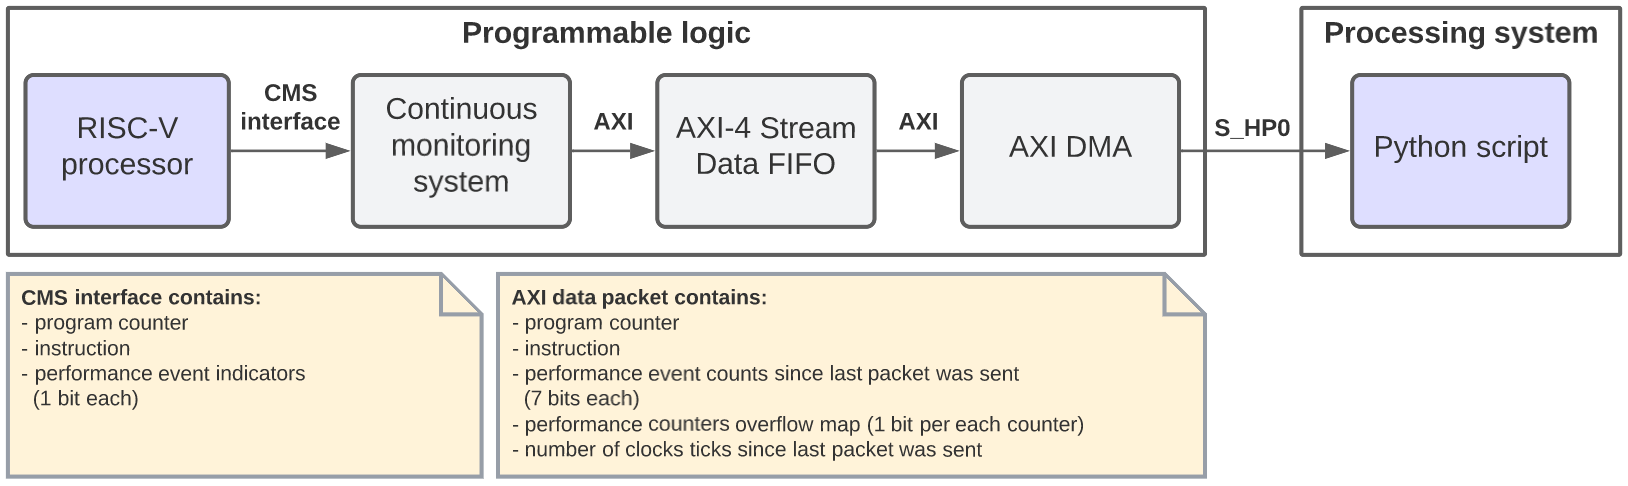
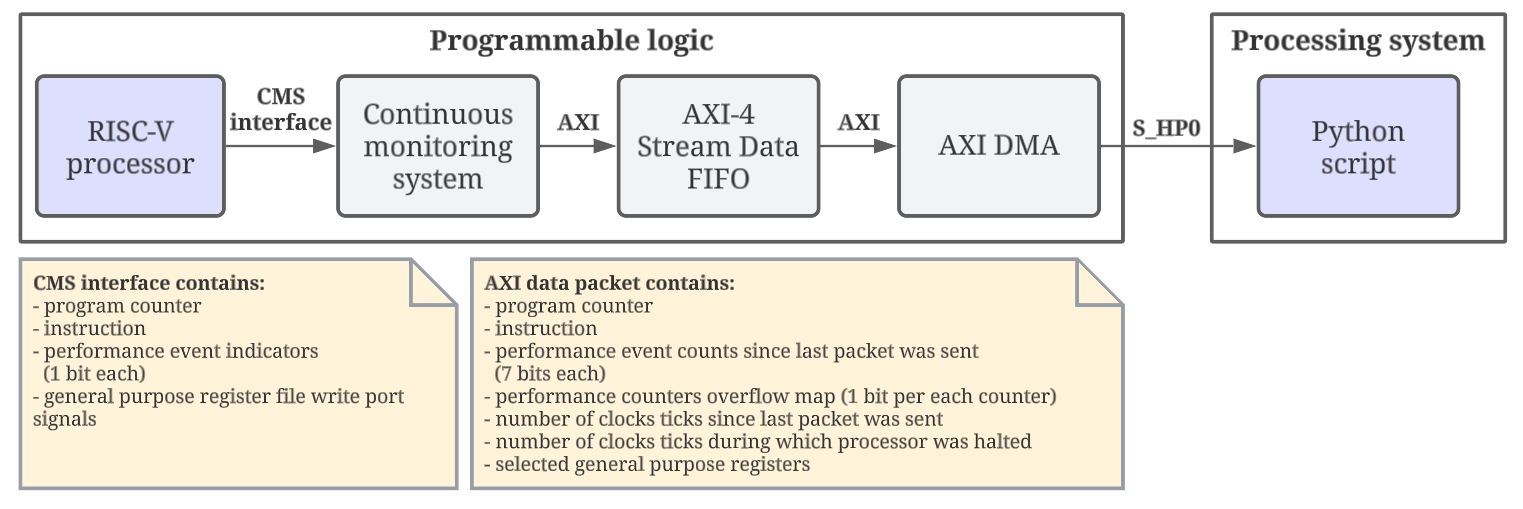
Updated docs

Changed region(s): [[0.0, 0.0, 1.0, 0.9877]]

diff --git a/README.md b/README.md
@@ -1,14 +1,14 @@
 # PYNQ wrapper for Flute processor
-This repository contains source files and documentation for a PYNQ design that collects metrics from CHERI-RISC-V (Flute) processor implemented in programmable logic (PL) of the ZC706 board. It is an anomaly-detection oriented tracing system. Its main purpose is to detect anomalous program behaviour. 
+This repository contains source files and documentation for a PYNQ design that implements an anomaly-detection oriented tracing system. The main purpose of the design is to detect anomalous program behaviour. The design is implemented in programmable logic (PL) of the ZC706 board where a modified version of CHERI-RISC-V (Flute) processor is placed.
 
-It includes a continuous monitoring system (CMS) hardware module responsible for filtering and preprocessing extracted data. The data is then sent to the Python script where it is used to train an anomaly detection model. The model is then used to detect anomalous behaviour of the processor. The design includes an Esp32-based display board that is used to control and view the state of the CMS, it allows the user to:  
+Next to the RISC-V processor, there is a continuous monitoring system (CMS) hardware module responsible for filtering and preprocessing data collected from it. Traced program metrics are sent to the Python script where it is used to train an anomaly detection model. The model is then used to detect anomalous behaviour of the processor, which is then displayed on a wireless Esp32-based [display board](./docs/display.md). The display board is also used to control the CMS and view its state. It allows the user to:  
 * load a program into memory (of the CHERI-RISC-V Flute processor)  
 * run, halt and resume the program
 * enable training/testing modes (independently) of the CMS
 * configure the [watchpoint-based tracing](./docs/watchpoint_based_tracing.md) (condition based data collection)
 * view how similar the current behaviour of the processor is to the training data (using cosine similarity of collected hardware performance counters)
 
-The project includes a custom I/O extension board which allows the RISC-V processor to interact with up to 16 digital (PMOD) and 16 analog (XADC) sensors. In our example [use case](./docs/use_case.md) we utilized an ECG sensor to collect heart activity information and display it on a dedicated screen (pretending to be a proper medical device).
+The project makes use of a [custom I/O extension board](./docs/sensors_extension.md) which allows the RISC-V processor to interact with up to 16 digital (PMOD) and 16 analog (XADC) sensors. In our example [use case](./docs/use_case.md) we utilized an ECG sensor to collect heart activity information and display it on a dedicated screen (pretending to be a proper medical device).
 
 ![ERROR: IMAGE WASNT DISPLAYED](./images/overview_detailed_3.png)
 
@@ -17,25 +17,9 @@ So far we only used hardware performance counters (HPC) for anomaly detection pu
 * instruction
 * general purpose registers
 * console output
-* sensor readings
+* physical sensor readings
 
 Such metrics could be used to create a robust application-specific detection system.
-
-# What work was done <span style="color:red"> (not sure if this is needed) </span>
-* CHERI-RISC-V Flute processor was modified (see [flute_modifications.md](./docs/flute_modifications.md) for details) 
-* Vivado design was created to facilitate:  
-    * data filtering, preprocessing and extraction (CMS module)
-    * console I/O (using AXI DMA) 
-    * XADC and PMOD sensors reading to dedicated memory accessible by the RISC-V processor
-    * memory implementation for the RISC-V processor
-* Custom I/O extension board was created to allow RISC-V interact with large number of physical sensors (see [sensors_extension.md](./docs/sensors_extension.md) for details about the parts and wiring)
-* ESP32 controlled displays integration, including:
-    * custom [GUI library](./display_board/src/lib)
-    * multicore Esp32 (Arduino-like) [program](./display_board/src/CMS/cms_program.cpp) to communicate with TCP server on PYNQ and display CMS information on the screen
-    * objdump output explorer
-
-# What was not created by us
-The [vivado_files/src_verilog](./vivado_files/src_verilog/) directory contains i.a. "RV64ACDFIMSUxCHERI" and "src_bsc_lib_RTL" directories, these contain source code of the CHERI-RISC-V Flute processor, which was copied from the [CTSRD-CHERI:Flute](https://github.com/CTSRD-CHERI/Flute) repository, modified by us (as described in [flute_modifications.md](./docs/flute_modifications.md)), compiled and placed in this repository. We'd like to make it clear that we did not create the processor, we only used it in our project.
 
 # File structure of this repository
 
@@ -43,7 +27,7 @@ The [vivado_files/src_verilog](./vivado_files/src_verilog/) directory contains i
 | ----------- | ----------- |
 | docs | Documentation files. |
 | images | Documentation images. |
-| jupyter_notebooks | Files to be placed on the PYNQ system (/home/xilinx/jupyter_notebooks). [pynq_wrapper.ipynb](./jupyter_notebooks/pynq_wrapper.ipynb) is the top-level script. |
+| jupyter_notebooks | Files to be placed on the PYNQ system (/home/xilinx/jupyter_notebooks). [pynq_wrapper.ipynb](./jupyter_notebooks/pynq_wrapper.ipynb) is the top-level script ([pynq_api_script.md](./docs/pynq_api_script.md) describes it). |
 | programs | Binary files to be placed on the PYNQ system (/home/xilinx/programs). These files can be first loaded (from the control display) into the CHERI-RISC-V Flute processor, and then executed. |
 | design_files | Files to be placed on the PYNQ system (/home/xilinx/design_files). These include the biststream (".bit") and hardware handoff (".hwh") files.  |
 | vivado_files | Verilog, constraints and other files relating to the Vivado project. |
@@ -53,17 +37,18 @@ The [vivado_files/src_verilog](./vivado_files/src_verilog/) directory contains i
 # Documentation
 Documentation files are in the [docs](./docs) directory and include:
 * [vivado_block_design.md](./docs/vivado_block_design.md) - description of the Vivado block design with screenshots using top-down approach
+* [pynq_api_script.md](./docs/pynq_api_script.md) - description of the Python script that controls the hardware
 * [setup_guide.md](./docs/setup_guide.md) - step by step guide to get the design up and running
+* [use_case.md](./docs/use_case.md) - example use case of the CMS module, monitoring ECG program that displays heart activity
+* [flute_modifications.md](./docs/flute_modifications.md) - how the Flute processor was modified to facilitate tracing and halting it
+* [sensors_extension.md](./docs/sensors_extension.md) - how to read digital and analog sensors in a RISC-V program
 * [data_extraction.md](./docs/data_extraction.md) - what is traced and how
 * [console_io.md](./docs/console_io.md) - how PYNQ can send and receive console I/O data to/from the RISC-V processor 
 * [continuous_monitoring_system_configuration.md](./docs/continuous_monitoring_system_configuration.md) - how to customize operation of the CMS module (responsible for filtering/preprocessing of the data)
 * [loading_and_running_programs.md](./docs/loading_and_running_programs.md) - how to load a program into memory and run it on the RISC-V processor
-* [sensors_extension.md](./docs/sensors_extension.md) - how to read digital and analog sensors in a RISC-V program
-* [flute_modifications.md](./docs/flute_modifications.md) - how the Flute processor was modified
-* [display.md](./docs/display.md) - information about ESP32-3248S035C and ESP32-8048S070 display boards
-* [tcp_server_protocol.md](./docs/tcp_server_protocol.md) - protocol for controlling and getting updates from PYNQ, it is used by the display board
-* [use_case.md](./docs/use_case.md) - example use case of the CMS module, monitoring ECG program that displays heart activity
+* [display.md](./docs/display.md) - information about ESP32-3248S035C and ESP32-8048S070 display boards (used to control the hardware, display program metrics and more)
 * [watchpoint_based_tracing.md](./docs/watchpoint_based_tracing.md) - description, pros, cons and implementation details of watchpoint based tracing implemented in CMS
+* [tcp_server_protocol.md](./docs/tcp_server_protocol.md) - protocol for controlling and getting updates from PYNQ, it is used by the display board
 
 
 # Example use case
@@ -96,3 +81,22 @@ Furthermore, the documentation may serve as a reference for anyone who would lik
 
 # Block design
 [<img alt="ERROR: IMAGE WASNT DISPLAYED" src="./images/block_design.png" />](./images/block_design.pdf)
+
+# Notes for the Xilinx Open Hardware competition
+Multiple components were used for this project, we'd like to highlight what was produced by us and what wasn't.
+
+## What work was done
+* CHERI-RISC-V Flute processor was modified (see [flute_modifications.md](./docs/flute_modifications.md) for details) 
+* [Vivado block design](./docs/vivado_block_design.md) was created to facilitate:  
+    * data filtering, preprocessing and extraction (CMS module)
+    * console I/O (using AXI DMA) 
+    * XADC and PMOD sensors reading to dedicated memory accessible by the RISC-V processor
+    * memory implementation for the RISC-V processor
+* Custom I/O extension board was created to allow RISC-V interact with large number of physical sensors (see [sensors_extension.md](./docs/sensors_extension.md) for details about the parts and wiring)
+* ESP32 controlled displays were integrated, this included creation of:
+    * custom [GUI library](./display_board/src/lib)
+    * multicore Esp32 (Arduino-like) [program](./display_board/src/CMS/cms_program.cpp) to communicate with TCP server on PYNQ and display CMS information on the screen
+    * objdump output explorer
+
+## What was not created by us
+The [vivado_files/src_verilog](./vivado_files/src_verilog/) directory contains i.a. "RV64ACDFIMSUxCHERI" and "src_bsc_lib_RTL" directories, these contain source code of the CHERI-RISC-V Flute processor, which was copied from the [CTSRD-CHERI:Flute](https://github.com/CTSRD-CHERI/Flute) repository, modified by us (as described in [flute_modifications.md](./docs/flute_modifications.md)), compiled and placed in this repository. We'd like to make it clear that we did not create the processor, we only used it in our project.

diff --git a/docs/data_extraction.md b/docs/data_extraction.md
@@ -7,7 +7,9 @@
     - [Example collected data (performance counters)](#example-collected-data-performance-counters)
 - [How much data can be collected](#how-much-data-can-be-collected)
     - [Possible way to handle low speed/low memory](#possible-way-to-handle-low-speedlow-memory)
-- [Data filtering](#data-filtering)
+- [Data filtering modes](#data-filtering-modes)
+  - [Basic filtering](#basic-filtering)
+  - [Watchpoing based filtering](#watchpoing-based-filtering)
 - [Performance counters selection](#performance-counters-selection)
 - [Note about performance counters extraction](#note-about-performance-counters-extraction)
 
@@ -29,6 +31,7 @@ The processor (implemented in Bluespec Verilog language) is modified to propagat
 - program counter
 - instruction
 - 39 performance event indicating bits (each indicating different performance event currently taking place)
+- general purpose register (GPR) file write port signals
 
 Image below presents ContinousMonitoringSystem_IFC declaration in the [ContinuousMonitoringSystem_IFC.bsv](https://github.com/michalmonday/Flute/blob/continuous_monitoring/src_Core/CPU/ContinuousMonitoring_IFC.bsv):  
 <img alt="ERROR: IMAGE WASNT DISPLAYED" src="../images/ContinuousMonitoringSystem_IFC_declaration.bsv.png" />
@@ -37,7 +40,7 @@ Image below presents how that interface is defined in the [CPU.bsv](https://gith
 
 <img alt="ERROR: IMAGE WASNT DISPLAYED" src="../images/ContinuousMonitoringSystem_IFC_definition.bsv.png" />
 
-Continuous monitoring system module (`cms_ip_wrapper` on image below) receives these signals as inputs, it then decides whether or not to collect them (that is elaborated in [Data filtering](#data-filtering) section). The continuous monitoring module is responsible for counting each performance event, and counting clock cycles since last collected item. If the data item is to be collected, it turns all values into a single 512 bit vector and transfers it to AXI4-Stream Data FIFO using AXI protocol. Contents of that 512 bit vector are described in the [What data is collected](#what-data-is-collected) section.
+Continuous monitoring system module (`cms_ip_wrapper` on image below) receives these signals as inputs, it then decides whether or not to collect them (that is elaborated in [Data filtering modes](#data-filtering-modes) section). The continuous monitoring module is responsible for counting each performance event, and counting clock cycles since last collected item. If the data item is to be collected, it turns all values into a single 1024 bit vector and transfers it to AXI4-Stream Data FIFO using AXI protocol. Contents of that 1024 bit vector are described in the [What data is collected](#what-data-is-collected) section.
 <!-- <img src="../images/cms_ifc.png" width=300/> -->
 <img alt="ERROR: IMAGE WASNT DISPLAYED" src="../images/data_transfer_path_block_design.png" width=500/>
 
@@ -46,10 +49,10 @@ After delivering the data to FIFO, the AXI DMA may be requested to transfer the 
 ```python
 from pynq import Overlay
 from pynq import allocate
-AXI_DATA_WIDTH = 512
+AXI_DATA_WIDTH = 1024
 
 def get_dma_transfer(input_buffer, dma_rec, dont_wait=False):
-    ''' Returns the number of transferred items, each having 512 bits. '''
+    ''' Returns the number of transferred items, each having 1024 bits. '''
     dma_rec.transfer(input_buffer)
     if not dont_wait:
         dma_rec.wait() 
@@ -67,12 +70,14 @@ items_transferred = get_dma_transfer(input_buffer, dma_rec)
 
 
 # What data is collected
-Each collected data item received by the python script contains:
+Each collected data item (`data_pkt` variable in [continuous_monitoring_system.sv](../vivado_files/src_verilog/continuous_monitoring_system_src/continuous_monitoring_system.sv)) received by the python script contains:
 * program counter (64 bits), collected as it is passed from stage 1 to stage 2 of the CPU pipeline
 * instruction (32 bits), collected as it is passed from stage 1 to stage 2 of the CPU pipeline
 * clock ticks count since last extracted item (64 bits)
+* clock ticks since processor was halted since last extracted item (64 bits) 
 * 39 performance counters (7 bits each) indicating how many of each events occured since last extracted item
 * performance counters overflow map (39 bits), indicating which counters have to be treated as modulo of 128 values (due to going over their maximum value limited by 7 bits)
+* 4 selected general purpose registers (A0 - A3)
 
 ### Example collected data (performance counters not shown)
 
@@ -100,10 +105,15 @@ Disabling the halting mechanism can be useful when testing features of design ot
 ### Possible way to handle low speed/low memory
 Inability to collect/process the data fast enough is a major shortcoming of this design, especially that python is relatively slow. One way to tackle that issue would be to change granularity of data collection (e.g. collect data every function call/return instead of every branch/jump/return, possibly this could involve collecting frequency distribution of certain events, similarly to performance counters collection). 
 
-# Data filtering
-Data items are only collected when program counter changes value and the current instruction is either a branch, jump, return or any instruction immediately following these.
+# Data filtering modes
 
 The `continuous_monitoring_system` module is configurable and may be set to only collect data when program counter is within range. Or to start/stop collection when it reaches specific value. See [continuous_monitoring_system_configuration.md](./continuous_monitoring_system_configuration.md) for more details.
+
+## Basic filtering
+Before introducing the watchpoint based filtering, data items were only collected when program counter changes value and the current instruction is either a branch, jump, return or any instruction immediately following these.
+
+## Watchpoing based filtering
+This is the currently used filtering, it is described in the [watchpoint_based_tracing.md](./watchpoint_based_tracing.md) file. It was introduced to reduce the amount of collected data and allow software (python script) to process data in real time (to detect anomalies).
 
 # Performance counters selection
 The Flute processor has 115 performance counters. In our test we ran a baremetal short program and repeatedly collected all 115 counter values, we observed that 78 of them always had all values equal to 0. We decided to extract only the remaining 37 + 2 additional ones: `Core__TRAP` and `Core__INTERRUPT`.

diff --git a/docs/pynq_api_script.md b/docs/pynq_api_script.md
@@ -1,0 +1,120 @@
+[pynq_wrapper.ipynb](../juptyer_notebooks/pynq_wrapper.ipynb) is the main file that controls the PYNQ board and communicates with the display board. It is long, and may be hart to read, this document describes its structure, main parts and functions.
+
+The pynq_wrapper.ipynb notebook file is divided into 4 main parts with the following headings:
+* Initialization and some auxiliary functions
+* Configuration of CMS
+* TCP server setup
+* Main operation
+
+These sections are described below.
+
+## Initialization and some auxiliary functions
+This part of the code is quite long. In summary, it loads the Overlay and initializes objects like:
+* Bram_Loader - which contains `load('program.bin')` method
+* Console_IO - which contains `send(string)` and `read()` methods
+* ContinuousMonitoringSystemController - which contains various methods (e.g. to enable trace start/stop address or set traced address range)
+* TCP_Server - which contains `.register_rpcs(rpc_functions)` method which sets functions that can be called by the display board (which controls CMS and displays its status)
+
+The most relevant auxiliary functions are: 
+* `reset_cpu()`
+* `run_and_collect(stdin)`
+* `get_dma_transfer(input_buffer)`
+* `parse_input_buffer(input_buffer)`
+* `parse_fifo_item(fifo_item)`
+* `print_dma_channel_status(channel)`
+* `print_fifo_data_counts()`
+
+This section loads the CPU with the [ecg.bin](../programs/ECG/) program and sets the processor to inactive state:
+```python
+# set processor into reset state
+gpio_rst_n_out.write(0)
+
+# load the default program
+bram_loader.load(PROGRAMS_DIR / 'ECG/ecg.bin')
+
+print('Initialization done')
+```
+
+## Configuration of CMS
+```python 
+def setup_cms(cms_ctrl):
+    # Triggerring (exact address must match to start/stop trace)
+    cms_ctrl.set_trigger_trace_start_address(0x1000)
+    cms_ctrl.set_trigger_trace_end_address(0x80000106)  
+    cms_ctrl.set_trigger_trace_start_address_enabled(False)
+    cms_ctrl.set_trigger_trace_end_address_enabled(False)
+
+    # Filtering (any address between lower bound and upper bound will be collected)
+    cms_ctrl.set_monitored_address_range_lower_bound(0x0FFF)     #(0x80000000)
+    cms_ctrl.set_monitored_address_range_upper_bound(0x800000FF)
+    cms_ctrl.set_monitored_address_range_lower_bound_enabled(False)
+    cms_ctrl.set_monitored_address_range_upper_bound_enabled(False)
+    
+    # Allow further trace collection if last traced program used "wfi"
+    # (wait for interrupt) instruction which stops the trace.
+    cms_ctrl.reset_wfi_wait()
+    cms_ctrl.set_tlast_interval(TLAST_INTERVAL)
+    
+    cms_ctrl.enable_halting_cpu()
+    
+    # Advanced trace filter (ATF) configuration
+    cms_ctrl.reset_atf()
+    
+    # DIRECT MATCH ATF WATCHPOINTS (determining when data is collected):
+    #cms_ctrl.set_atf_match_watchpoint(0, {'pc':0x8000076c})
+    #cms_ctrl.set_atf_match_watchpoint(0, {'pc':0x80000760}) # ecg_baseline wait_ms
+    #cms_ctrl.set_atf_match_watchpoint(0, {'pc':0x800008B0}) # ecg_baseline wait_ms_2
+    cms_ctrl.set_atf_mode(ATF_MODE.ANOMALY_DETECTION) # alternative: ATF_MODE.PATTERN_COLLECTION
+    cms_ctrl.enable_atf()
+    
+setup_cms(cms_ctrl)
+```
+
+## TCP server setup
+This part defines remote procedure calls (rpc) that can be called by the display board (the control screen). All rpc functions start with "rpc_" prefix, currently these are:
+* `rpc_list_programs()`
+* `rpc_list_objdumps()`
+* `rpc_get_objdump_data(category, name)`
+* `rpc_load_program(name)`
+* `rpc_run()`
+* `rpc_halt()`
+* `rpc_enable_training()`
+* `rpc_disable_training()`
+* `rpc_enable_testing()`
+* `rpc_disable_testing()`
+* `rpc_reset_dataset()`
+* `rpc_set_atf_watchpoint(index, is_active, json_str_attributes_dict)`
+* `rpc_atf_watchpoint_set_active(index, state)`
+
+RPC calls are implemented using JSON based protocol, see [cms_program.cpp](../display_board/src/CMS/cms_program.cpp) (client) and [TCP_Server.py](../jupyter_notebooks/tcp_server.py) (server) for more details.
+
+## Main operation
+This part of the code starts a thread which allows the display board to control the PYNQ board to do things like:
+* load a program
+* run/halt a program
+* set or toggle a trace filter watchpoint condition
+* start/stop training
+* start/stop testing
+* receive data about the currently running program, data like:
+    * performance (which decreases if the program is halted due to full internal trace buffer in programmable logic)
+    * number of collected data items since receiving last update (it depends on how many times watchpoint condition was met)
+    * average similarity to previously collected metrics (indicating whether or not the program behaviour is normal)
+
+This also the part of the code where the `get_dma_transfer(input_buffer, dma_rec_channel)` is called to get the trace data from the RISC-V processor. The data is then parsed:  
+```python
+perf_counters, perf_counters_overflow_map, pc, clk_counter, instr, fifo_full_ticks_count, gp_regs = parse_fifo_item(fifo_item)
+```
+
+Depending on training enable state, the performance counters are supplied to the anomaly detection model:
+```python
+if mode & MODE.TRAINING:
+    anomaly_detection.update_dataset(useful_perf_counters)
+```
+
+Depending on testing enable state, the maximum cosine similarity to previously collected data items may be stored (before being sent as an update to the display board):
+```python
+if mode & MODE.TESTING:
+    similarity = anomaly_detection.get_max_cosine_similarity(useful_perf_counters)
+    similarities.append(similarity)
+```
+

diff --git a/docs/vivado_block_design.md b/docs/vivado_block_design.md
@@ -22,13 +22,13 @@ Hierarchical blocks are heavily used in the design, this way it's easier to mana
 At top level the Vivado design consists of 3 main components:  
 * **CHERI_RISCV_Flute_mkSoC_Top** - top-level module of a RISC-V processor with CHERI security extension, modified by us to propagate signals relevant from behaviour profiling perspective (e.g. program counter, instruction, hardware performance counters, general purpose registers)  
 * **ZYNQ_ARM_processing_system** - block that allows to configure and interface with the Zynq ARM processing system
-* **PYNQ_wrapper_blocks hierarchy** - it encapsulates all the blocks that are responsible for trace collection, interfacing console I/O between RISC-V processor and the PYNQ script, loading BRAM with baremetal programs, providing the RISC-V access to analog and digital sensors readings, and other peripherals (e.g. timer, random number generator)
+* **PYNQ_wrapper_blocks hierarchy** - it encapsulates all the blocks that are responsible for trace collection, interfacing console I/O between RISC-V processor and the PYNQ script, loading BRAM with baremetal programs, providing the RISC-V access to analog and digital sensors readings, and other peripherals (e.g. timer, random number generator, memory)
   
 ![ERROR: IMAGE DIDNT SHOW](../images/block_design.png)
 
 # PYNQ_wrapper_blocks
 PYNQ_wrapper_blocks hierarchy contains the following main components:  
-* **continuous_monitoring_system_blocks hierarchy** - it encapsulates the continuous monitoring system (CMS) module as well as the internal trace storage (AXI4-Stream Data FIFO) wired to AXI DMA (allowing to retrieve the trace in the PYNQ script). It also contains "axi_lite_tap" component which recognizes that PYNQ script requested transfer from the DMA receive channel.  
+* **continuous_monitoring_system_blocks hierarchy** - it encapsulates the continuous monitoring system (CMS) module as well as the internal trace storage (AXI4-Stream Data FIFO) wired to AXI DMA (allowing to retrieve the trace in the PYNQ script). It also contains "[axi_lite_tap](../vivado_files/src_verilog/custom_hdl/axi_dma_receive_transfer_tap.v)" component which recognizes that PYNQ script requested transfer from the DMA receive channel.  
 * **console_io hierarchy** - it contains interface between the RISC-V processor console related signals and the AXI DMA dedicated for console I/O, allowing the PYNQ script to read program output and write program input. It also contains the "axi_lite_tap" component which recognizes that PYNQ script requested transfer from the DMA receive channel.
 * **riscv_other_peripherals hierarchy** - it uses XADC wizard with external multiplexer mode enabled to provide analog sensor readings, it also controls 2 cascaded shift registers to provide digital sensor readings, it also contains a timer (for GetTickCount function) and a random number generator for the RISC-V processor.
 * **bram_loader and bram_logic hierarchies** - these blocks allow the PYNQ script to load baremetal programs into BRAM (using AXI GPIO and a shift register to overcome maximum 32 bits AXI GPIO limit) and also let the RISC-V processor to read it. 

diff --git a/docs/flute_modifications.md b/docs/flute_modifications.md
@@ -14,7 +14,9 @@
 
 
 # Overview
-Flute processor is written in Bluespec Verilog language, it was modified by us in the following ways:
+Flute processor is written in Bluespec Verilog language (".bsv" extension). Bluespec Verilog files are compiled into Verilog files using bsc compiler. 
+
+We modified the Flute processor in the following ways:
 * signals relevant for tracing were propagated from the CPU to the outside of the SoC
 * a new port was added to the internal fabric (interconnect) of the Soc_Top module (allowing RISC-V to interact with custom peripherals we wish to use, like the [sensors extension board](./sensors_extension.md))
 * write port of general purpose registers (GPR) file is monitored (for the sake of creating a shadow copy of GPRs in our Continuous Monitoring System)
@@ -246,18 +248,19 @@ It can be noticed that the route_vector entry of `other_peripherals` is set to a
    };
 ```
 
-The address range length is set to 0x4000, but only the begining of it is used:  
+The address range length is set to 0x4000, but only some of this address range is used:  
 * 16 locations for analog sensors
 * 16 locations for digital sensors
+* small range for UART (AXI Uartlite), which we used to send heart activity values to an ECG display, (this is a separate UART, located at 0xC000_4000, not to be confused with UART0 located at 0xC000_0000, which is controlled by the PYNQ/Python script)
 * 1 location for timer since last CPU reset (get_ticks_count function) 
 * 1 location for timer since loading Overlay (get_overlay_ticks_count function)
 * 1 location for random number generator (unused in this project yet)
 
-The implementation of the latter 3 is in the [utils_rom.v](../vivado_files/src_verilog/custom_hdl/utils_rom.v) file.
+The implementation of the last 3 can be found in the [utils_rom.v](../vivado_files/src_verilog/custom_hdl/utils_rom.v) file.
 
 To see how to interact with these components in C/C++ language see `utils_flute.h/.c` and `sensors.h/.c` from [this directory](https://github.com/michalmonday/riscv-baremetal-minimal-example-c/tree/flute_design/include).
 
-This address range corresponds to the one specified for the AXI BRAM Controller (connected to smarconnect on the image above) in the PYNQ wrapper block design. 
+The address range from the Soc_Map.bsv (RISC-V source code) corresponds to the one specified for the AXI BRAM Controller (connected to smartconnect on the image above) in the PYNQ wrapper block design. 
 
 <img alt="ERROR: IMAGE DIDNT SHOW" src="../images/axi_bram_ctrl_sensors_address_editor.png" />
 

diff --git a/docs/continuous_monitoring_system_configuration.md b/docs/continuous_monitoring_system_configuration.md
@@ -46,13 +46,19 @@ def setup_cms(cms_ctrl):
     # Allow further trace collection if last traced program used "wfi"
     # (wait for interrupt) instruction which stops the trace.
     cms_ctrl.reset_wfi_wait()
-    
     cms_ctrl.set_tlast_interval(TLAST_INTERVAL)
-
-    # halting is enabled by default anyway
+    
     cms_ctrl.enable_halting_cpu()
-    # cms_ctrl.disable_halting_cpu()
-
+    
+    # Advanced trace filter (ATF) configuration
+    cms_ctrl.reset_atf()
+    
+    # DIRECT MATCH ATF WATCHPOINTS (determining when data is collected):
+    #cms_ctrl.set_atf_match_watchpoint(0, {'pc':0x8000076c})
+    #cms_ctrl.set_atf_match_watchpoint(0, {'pc':0x80000760}) # ecg_baseline wait_ms
+    #cms_ctrl.set_atf_match_watchpoint(0, {'pc':0x800008B0}) # ecg_baseline wait_ms_2
+    cms_ctrl.set_atf_mode(ATF_MODE.ANOMALY_DETECTION) # alternative: ATF_MODE.PATTERN_COLLECTION
+    cms_ctrl.enable_atf()
 
 # the long name is because of using hierarchy in Vivado block design
 cms_ctrl_axi_gpio = base.PYNQ_wrapper_blocks.continuous_monitoring_system_blocks.axi_gpio_to_cms_ctrl_interface.axi_gpio_cms_ctrl.channel1    

diff --git a/docs/watchpoint_based_tracing.md b/docs/watchpoint_based_tracing.md
@@ -30,3 +30,5 @@ Initially, lower/upper boundaries were used in attempt to find an automatic way 
 
 
 ![ERROR: IMAGE DIDNT SHOW](../images/watchpoint_implementation.png)
+
+Related code can be found [advanced_trace_filter.sv](../vivado_files/src_verilog/continuous_monitoring_system_src/advanced_trace_filter.sv) file. The python script responsible for controlling the hardware can be found in [advanced_trace_filter.py](../jupyter_notebooks/advanced_trace_filter.py) and [continuous_monitoring_system_controller.py](../jupyter_notebooks/continuous_monitoring_system_controller.py) files.
